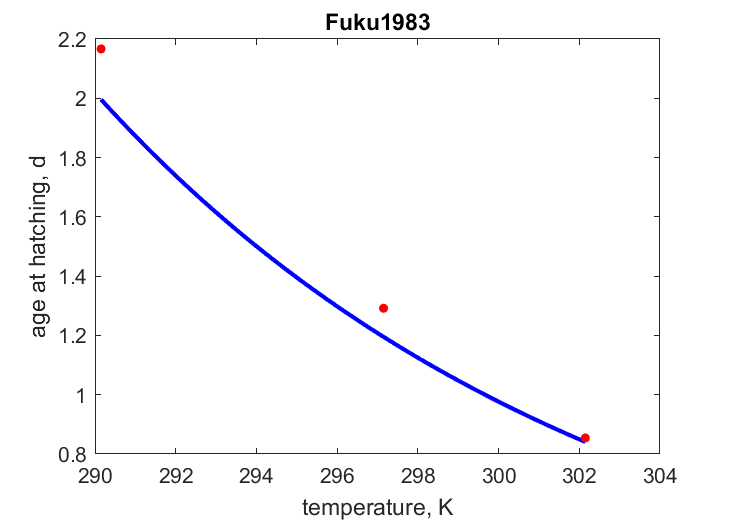
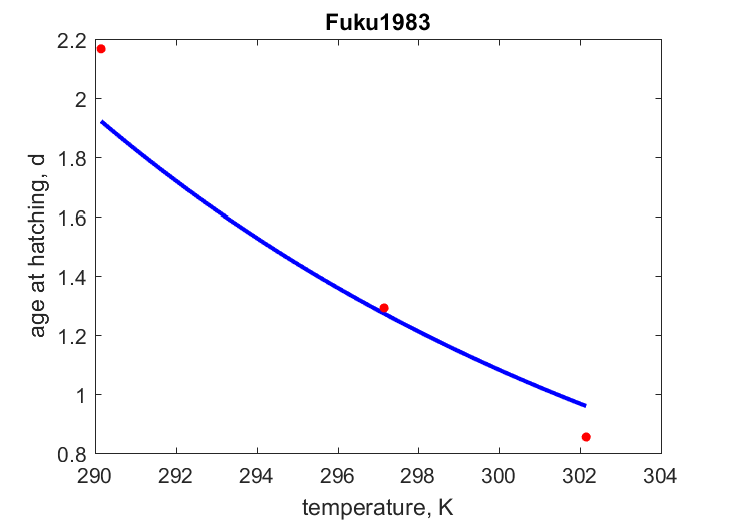
repro experiments code checkup, pars_init released some pars, group plots

diff --git a/Engraulis_japonicus_res.html b/Engraulis_japonicus_res.html
@@ -44,7 +44,7 @@
   </div>
 
   <div class="par">
-  <h4>COMPLETE = 2.5; MRE =    0.182; SMSE =    0.309 </h4>
+  <h4>COMPLETE = 2.5; MRE =    0.170; SMSE =    0.189 </h4>
   </div>
 
   <p class="clear"></p>
@@ -53,36 +53,36 @@
   <h2>Data & predictions</h2>
   <TABLE id="prd">
     <TR  class="head"><TH>data</TH> <TH>prd</TH> <TH>RE</TH>  <TH>symbol</TH> <TH>units</TH> <TH>description</TH> </TR>
-    <TR><TD>  2</TD> <TD>2.239</TD> <TD>0.1195</TD> <TD>ab</TD> <TD>d</TD> <TD>age at birth</TD></TR>
-    <TR><TD> 96</TD> <TD>95.32</TD> <TD>0.00708</TD> <TD>tp_20</TD> <TD>d</TD> <TD>time since birth at puberty</TD></TR>
-    <TR><TD> 88</TD> <TD>90.09</TD> <TD>0.02374</TD> <TD>tp_m20</TD> <TD>d</TD> <TD>time since birth at puberty</TD></TR>
-    <TR><TD> 65</TD> <TD>62.01</TD> <TD>0.04594</TD> <TD>tp_26</TD> <TD>d</TD> <TD>time since birth at puberty</TD></TR>
-    <TR><TD> 60</TD> <TD>58.61</TD> <TD>0.02316</TD> <TD>tp_m26</TD> <TD>d</TD> <TD>time since birth at puberty</TD></TR>
-    <TR><TD>1462</TD> <TD>1457</TD> <TD>0.003603</TD> <TD>am</TD> <TD>d</TD> <TD>life span</TD></TR>
-    <TR><TD>0.3347</TD> <TD>0.2651</TD> <TD>0.2082</TD> <TD>Lb</TD> <TD>cm</TD> <TD>standard length at birth</TD></TR>
-    <TR><TD>2.1</TD> <TD>0.7063</TD> <TD>0.6636</TD> <TD>Lj</TD> <TD>cm</TD> <TD>standard length at metamorphosis</TD></TR>
-    <TR><TD>6.5</TD> <TD>7.065</TD> <TD>0.08691</TD> <TD>Lp</TD> <TD>cm</TD> <TD>standard length at puberty</TD></TR>
-    <TR><TD> 18</TD> <TD>15.26</TD> <TD>0.1522</TD> <TD>Li</TD> <TD>cm</TD> <TD>ultimate total length</TD></TR>
-    <TR><TD>0.00025</TD> <TD>0.0002437</TD> <TD>0.02529</TD> <TD>Wwb</TD> <TD>g</TD> <TD>wet weight at birth</TD></TR>
-    <TR><TD> 45</TD> <TD>46.51</TD> <TD>0.03348</TD> <TD>Wwi</TD> <TD>g</TD> <TD>ultimate wet weight</TD></TR>
-    <TR><TD>600</TD> <TD>599</TD> <TD>0.001608</TD> <TD>Ri</TD> <TD>#/d</TD> <TD>maximum reprod rate</TD></TR>
-    <TR><TD colspan="2">see figure</TD> <TD>0.06507</TD> <TD>Tah</TD> <TD colspan="2">temperature, <font color="blue"><i>vs.</i></font> age at hatching</TD>
-    <TR><TD colspan="2">see figure</TD> <TD>0.2239</TD> <TD>tR_f1_19</TD> <TD colspan="2">time since start of experiment, <font color="blue"><i>vs.</i></font> Individual reproduction rate</TD>
-    <TR><TD colspan="2">see figure</TD> <TD>0.2084</TD> <TD>tR_f1_23</TD> <TD colspan="2">time since start of experiment, <font color="blue"><i>vs.</i></font> Individual reproduction rate</TD>
-    <TR><TD colspan="2">see figure</TD> <TD>0.4127</TD> <TD>tR_f35_19</TD> <TD colspan="2">time since start of experiment, <font color="blue"><i>vs.</i></font> Individual reproduction rate</TD>
-    <TR><TD colspan="2">see figure</TD> <TD>0.3729</TD> <TD>tR_f35_23</TD> <TD colspan="2">time since start of experiment, <font color="blue"><i>vs.</i></font> Individual reproduction rate</TD>
-    <TR><TD colspan="2">see figure</TD> <TD>0.8262</TD> <TD>tR_f0_19</TD> <TD colspan="2">time since start of experiment, <font color="blue"><i>vs.</i></font> Individual reproduction rate</TD>
-    <TR><TD colspan="2">see figure</TD> <TD>0.8349</TD> <TD>tR_f0_23</TD> <TD colspan="2">time since start of experiment, <font color="blue"><i>vs.</i></font> Individual reproduction rate</TD>
-    <TR><TD colspan="2">see figure</TD> <TD>0.1272</TD> <TD>tL</TD> <TD colspan="2">time since birth, <font color="blue"><i>vs.</i></font> standard length</TD>
-    <TR><TD colspan="2">see figure</TD> <TD>0.0382</TD> <TD>tLj</TD> <TD colspan="2">time since birth, <font color="blue"><i>vs.</i></font> standard length</TD>
-    <TR><TD colspan="2">see figure</TD> <TD>0.1713</TD> <TD>LW</TD> <TD colspan="2">standard length, <font color="blue"><i>vs.</i></font> wet weight</TD>
-    <TR><TD colspan="2">see figure</TD> <TD>0.1783</TD> <TD>LWw</TD> <TD colspan="2">standard length, <font color="blue"><i>vs.</i></font> wet weight</TD>
-    <TR class="psd"><TD>0.02</TD> <TD>0.07124</TD> <TD>2.562</TD> <TD>psd.v</TD> <TD>cm/d</TD> <TD>energy conductance</TD></TR>
-    <TR class="psd"><TD>0.8</TD> <TD>0.7919</TD> <TD>0.01012</TD> <TD>psd.kap</TD> <TD>-</TD> <TD>allocation fraction to soma</TD></TR>
+    <TR><TD>  2</TD> <TD>2.39</TD> <TD>0.1951</TD> <TD>ab</TD> <TD>d</TD> <TD>age at birth</TD></TR>
+    <TR><TD> 96</TD> <TD>93.97</TD> <TD>0.02117</TD> <TD>tp_20</TD> <TD>d</TD> <TD>time since birth at puberty</TD></TR>
+    <TR><TD> 88</TD> <TD>85.1</TD> <TD>0.03292</TD> <TD>tp_m20</TD> <TD>d</TD> <TD>time since birth at puberty</TD></TR>
+    <TR><TD> 65</TD> <TD>66.52</TD> <TD>0.02337</TD> <TD>tp_26</TD> <TD>d</TD> <TD>time since birth at puberty</TD></TR>
+    <TR><TD> 60</TD> <TD>60.24</TD> <TD>0.004066</TD> <TD>tp_m26</TD> <TD>d</TD> <TD>time since birth at puberty</TD></TR>
+    <TR><TD>1462</TD> <TD>1732</TD> <TD>0.185</TD> <TD>am</TD> <TD>d</TD> <TD>life span</TD></TR>
+    <TR><TD>0.3347</TD> <TD>0.2603</TD> <TD>0.2225</TD> <TD>Lb</TD> <TD>cm</TD> <TD>standard length at birth</TD></TR>
+    <TR><TD>2.1</TD> <TD>0.412</TD> <TD>0.8038</TD> <TD>Lj</TD> <TD>cm</TD> <TD>standard length at metamorphosis</TD></TR>
+    <TR><TD>6.5</TD> <TD>5.95</TD> <TD>0.08464</TD> <TD>Lp</TD> <TD>cm</TD> <TD>standard length at puberty</TD></TR>
+    <TR><TD> 18</TD> <TD>14.45</TD> <TD>0.1971</TD> <TD>Li</TD> <TD>cm</TD> <TD>ultimate total length</TD></TR>
+    <TR><TD>0.00025</TD> <TD>0.0002696</TD> <TD>0.07856</TD> <TD>Wwb</TD> <TD>g</TD> <TD>wet weight at birth</TD></TR>
+    <TR><TD> 45</TD> <TD>46.16</TD> <TD>0.02587</TD> <TD>Wwi</TD> <TD>g</TD> <TD>ultimate wet weight</TD></TR>
+    <TR><TD>600</TD> <TD>603</TD> <TD>0.005018</TD> <TD>Ri</TD> <TD>#/d</TD> <TD>maximum reprod rate</TD></TR>
+    <TR><TD colspan="2">see figure</TD> <TD>0.08561</TD> <TD>Tah</TD> <TD colspan="2">temperature, <font color="blue"><i>vs.</i></font> age at hatching</TD>
+    <TR><TD colspan="2">see figure</TD> <TD>0.2416</TD> <TD>tR_f1_19</TD> <TD colspan="2">time since start of experiment, <font color="blue"><i>vs.</i></font> Individual reproduction rate</TD>
+    <TR><TD colspan="2">see figure</TD> <TD>0.2042</TD> <TD>tR_f1_23</TD> <TD colspan="2">time since start of experiment, <font color="blue"><i>vs.</i></font> Individual reproduction rate</TD>
+    <TR><TD colspan="2">see figure</TD> <TD>0.4232</TD> <TD>tR_f35_19</TD> <TD colspan="2">time since start of experiment, <font color="blue"><i>vs.</i></font> Individual reproduction rate</TD>
+    <TR><TD colspan="2">see figure</TD> <TD>0.3345</TD> <TD>tR_f35_23</TD> <TD colspan="2">time since start of experiment, <font color="blue"><i>vs.</i></font> Individual reproduction rate</TD>
+    <TR><TD colspan="2">see figure</TD> <TD>0.6764</TD> <TD>tR_f0_19</TD> <TD colspan="2">time since start of experiment, <font color="blue"><i>vs.</i></font> Individual reproduction rate</TD>
+    <TR><TD colspan="2">see figure</TD> <TD>0.3647</TD> <TD>tR_f0_23</TD> <TD colspan="2">time since start of experiment, <font color="blue"><i>vs.</i></font> Individual reproduction rate</TD>
+    <TR><TD colspan="2">see figure</TD> <TD>0.117</TD> <TD>tL</TD> <TD colspan="2">time since birth, <font color="blue"><i>vs.</i></font> standard length</TD>
+    <TR><TD colspan="2">see figure</TD> <TD>0.113</TD> <TD>tLj</TD> <TD colspan="2">time since birth, <font color="blue"><i>vs.</i></font> standard length</TD>
+    <TR><TD colspan="2">see figure</TD> <TD>0.1574</TD> <TD>LW</TD> <TD colspan="2">standard length, <font color="blue"><i>vs.</i></font> wet weight</TD>
+    <TR><TD colspan="2">see figure</TD> <TD>0.1073</TD> <TD>LWw</TD> <TD colspan="2">standard length, <font color="blue"><i>vs.</i></font> wet weight</TD>
+    <TR class="psd"><TD>0.02</TD> <TD>0.05895</TD> <TD>1.948</TD> <TD>psd.v</TD> <TD>cm/d</TD> <TD>energy conductance</TD></TR>
+    <TR class="psd"><TD>0.8</TD> <TD>0.7339</TD> <TD>0.08258</TD> <TD>psd.kap</TD> <TD>-</TD> <TD>allocation fraction to soma</TD></TR>
     <TR class="psd"><TD>0.95</TD> <TD>0.95</TD> <TD>  0</TD> <TD>psd.kap_R</TD> <TD>-</TD> <TD>reproduction efficiency</TD></TR>
-    <TR class="psd"><TD> 18</TD> <TD>137.1</TD> <TD>6.619</TD> <TD>psd.p_M</TD> <TD>J/d.cm^3</TD> <TD>vol-spec som maint</TD></TR>
+    <TR class="psd"><TD> 18</TD> <TD>150.3</TD> <TD>7.351</TD> <TD>psd.p_M</TD> <TD>J/d.cm^3</TD> <TD>vol-spec som maint</TD></TR>
     <TR class="psd"><TD>0.002</TD> <TD>0.002</TD> <TD>  0</TD> <TD>psd.k_J</TD> <TD>1/d</TD> <TD>maturity maint rate coefficient</TD></TR>
-    <TR class="psd"><TD>0.8</TD> <TD>0.8025</TD> <TD>0.003142</TD> <TD>psd.kap_G</TD> <TD>-</TD> <TD>growth efficiency</TD></TR>
+    <TR class="psd"><TD>0.8</TD> <TD>0.8043</TD> <TD>0.005353</TD> <TD>psd.kap_G</TD> <TD>-</TD> <TD>growth efficiency</TD></TR>
   </TABLE>
   </div>
 
@@ -91,33 +91,33 @@
   <TABLE id="par">
     <TR class="head"><TH>symbol</TH> <TH>units</TH> <TH>value</TH>  <TH>free</TH> <TH>description</TH> </TR>
     <TR><TD>T_ref</TD> <TD>K</TD> <TD>293.1</TD> <TD>0</TD> <TD>Reference temperature</TD></TR>
-    <TR><TD>T_A</TD> <TD>K</TD> <TD>6317</TD> <TD>1</TD> <TD>Arrhenius temp</TD></TR>
-    <TR><TD>z</TD> <TD>-</TD> <TD>1.152</TD> <TD>1</TD> <TD>zoom factor</TD></TR>
+    <TR><TD>T_A</TD> <TD>K</TD> <TD>5077</TD> <TD>1</TD> <TD>Arrhenius temp</TD></TR>
+    <TR><TD>z</TD> <TD>-</TD> <TD>1.718</TD> <TD>1</TD> <TD>zoom factor</TD></TR>
     <TR><TD>F_m</TD> <TD>l/d.cm^2</TD> <TD>6.5</TD> <TD>0</TD> <TD>{F_m}, max spec searching rate</TD></TR>
     <TR><TD>kap_X</TD> <TD>-</TD> <TD>0.8</TD> <TD>0</TD> <TD>digestion efficiency of food to reserve</TD></TR>
     <TR><TD>kap_P</TD> <TD>-</TD> <TD>0.1</TD> <TD>0</TD> <TD>faecation efficiency of food to faeces</TD></TR>
-    <TR><TD>v</TD> <TD>cm/d</TD> <TD>0.07124</TD> <TD>1</TD> <TD>energy conductance</TD></TR>
-    <TR><TD>kap</TD> <TD>-</TD> <TD>0.7919</TD> <TD>1</TD> <TD>allocation fraction to soma</TD></TR>
+    <TR><TD>v</TD> <TD>cm/d</TD> <TD>0.05895</TD> <TD>1</TD> <TD>energy conductance</TD></TR>
+    <TR><TD>kap</TD> <TD>-</TD> <TD>0.7339</TD> <TD>1</TD> <TD>allocation fraction to soma</TD></TR>
     <TR><TD>kap_R</TD> <TD>-</TD> <TD>0.95</TD> <TD>0</TD> <TD>reproduction efficiency</TD></TR>
-    <TR><TD>p_M</TD> <TD>J/d.cm^3</TD> <TD>137.1</TD> <TD>1</TD> <TD>[p_M], vol-spec somatic maint</TD></TR>
+    <TR><TD>p_M</TD> <TD>J/d.cm^3</TD> <TD>150.3</TD> <TD>1</TD> <TD>[p_M], vol-spec somatic maint</TD></TR>
     <TR><TD>p_T</TD> <TD>J/d.cm^2</TD> <TD>  0</TD> <TD>0</TD> <TD>{p_T}, surf-spec somatic maint</TD></TR>
     <TR><TD>k_J</TD> <TD>1/d</TD> <TD>0.002</TD> <TD>0</TD> <TD>maturity maint rate coefficient</TD></TR>
-    <TR><TD>E_G</TD> <TD>J/cm^3</TD> <TD>5214</TD> <TD>1</TD> <TD>[E_G], spec cost for structure</TD></TR>
-    <TR><TD>E_Hb</TD> <TD>J</TD> <TD>0.2129</TD> <TD>1</TD> <TD>maturity at birth</TD></TR>
-    <TR><TD>E_Hj</TD> <TD>J</TD> <TD>4.17</TD> <TD>1</TD> <TD>maturity at metam</TD></TR>
-    <TR><TD>E_Hp</TD> <TD>J</TD> <TD>6694</TD> <TD>1</TD> <TD>maturity at puberty</TD></TR>
+    <TR><TD>E_G</TD> <TD>J/cm^3</TD> <TD>5202</TD> <TD>1</TD> <TD>[E_G], spec cost for structure</TD></TR>
+    <TR><TD>E_Hb</TD> <TD>J</TD> <TD>0.2271</TD> <TD>1</TD> <TD>maturity at birth</TD></TR>
+    <TR><TD>E_Hj</TD> <TD>J</TD> <TD>0.917</TD> <TD>1</TD> <TD>maturity at metam</TD></TR>
+    <TR><TD>E_Hp</TD> <TD>J</TD> <TD>4663</TD> <TD>1</TD> <TD>maturity at puberty</TD></TR>
     <TR><TD>h_a</TD> <TD>1/d^2</TD> <TD>3.179e-08</TD> <TD>0</TD> <TD>Weibull aging acceleration</TD></TR>
     <TR><TD>s_G</TD> <TD>-</TD> <TD>0.0001</TD> <TD>0</TD> <TD>Gompertz stress coefficient</TD></TR>
-    <TR><TD>E_Hh</TD> <TD>J</TD> <TD>0.0616</TD> <TD>0</TD> <TD>maturity at hatching</TD></TR>
-    <TR><TD>E_Hpm</TD> <TD>J</TD> <TD>5767</TD> <TD>0</TD> <TD>maturity at puberty for males</TD></TR>
-    <TR><TD>del_M</TD> <TD>-</TD> <TD>0.2011</TD> <TD>1</TD> <TD>shape coefficient for standard length</TD></TR>
+    <TR><TD>E_Hh</TD> <TD>J</TD> <TD>0.05311</TD> <TD>1</TD> <TD>maturity at hatching</TD></TR>
+    <TR><TD>E_Hpm</TD> <TD>J</TD> <TD>3575</TD> <TD>1</TD> <TD>maturity at puberty for males</TD></TR>
+    <TR><TD>del_M</TD> <TD>-</TD> <TD>0.1881</TD> <TD>1</TD> <TD>shape coefficient for standard length</TD></TR>
     <TR><TD>f</TD> <TD>-</TD> <TD>  1</TD> <TD>0</TD> <TD>scaled functional response for 0-var data</TD></TR>
-    <TR><TD>f_0</TD> <TD>-</TD> <TD>0.1</TD> <TD>1</TD> <TD>scaled functional response for N-T 0 food data</TD></TR>
-    <TR><TD>f_35</TD> <TD>-</TD> <TD>0.35</TD> <TD>0</TD> <TD>scaled functional response for N-T low food data</TD></TR>
-    <TR><TD>f_LWw</TD> <TD>-</TD> <TD>0.6</TD> <TD>0</TD> <TD>scaled functional response for length-weight data in Wakasa Bay</TD></TR>
-    <TR><TD>f_Tah</TD> <TD>-</TD> <TD>0.4538</TD> <TD>0</TD> <TD>scaled functional response for Tah data</TD></TR>
-    <TR><TD>f_tL</TD> <TD>-</TD> <TD>0.4538</TD> <TD>0</TD> <TD>scaled functional response for tL data</TD></TR>
-    <TR><TD>f_tR</TD> <TD>-</TD> <TD>  1</TD> <TD>1</TD> <TD>scaled functional response for ad libitum part of tN-data experiments</TD></TR>
+    <TR><TD>f_0</TD> <TD>-</TD> <TD>0.2816</TD> <TD>1</TD> <TD>scaled functional response for N-T 0 food data</TD></TR>
+    <TR><TD>f_35</TD> <TD>-</TD> <TD>0.2841</TD> <TD>1</TD> <TD>scaled functional response for N-T low food data</TD></TR>
+    <TR><TD>f_LWw</TD> <TD>-</TD> <TD>0.3355</TD> <TD>1</TD> <TD>scaled functional response for length-weight data in Wakasa Bay</TD></TR>
+    <TR><TD>f_Tah</TD> <TD>-</TD> <TD>0.6083</TD> <TD>1</TD> <TD>scaled functional response for Tah data</TD></TR>
+    <TR><TD>f_tL</TD> <TD>-</TD> <TD>0.54</TD> <TD>1</TD> <TD>scaled functional response for tL data</TD></TR>
+    <TR><TD>f_tR</TD> <TD>-</TD> <TD>1.409</TD> <TD>1</TD> <TD>scaled functional response for ad libitum part of tN-data experiments</TD></TR>
     <TR><TD>t_0</TD> <TD>d</TD> <TD>  1</TD> <TD>0</TD> <TD>time at start development at 20 C</TD></TR>
   </TABLE>
   </div>

diff --git a/mydata_Engraulis_japonicus.m b/mydata_Engraulis_japonicus.m
@@ -19,7 +19,7 @@ metaData.ecoCode.reprod  = {'O'};
 
 metaData.T_typical  = C2K(18.4); % K, body temp
 metaData.data_0     = {'ab'; 'am'; 'Lb'; 'Lp'; 'Li'; 'Wwb'; 'Wwi'; 'Ri'}; 
-metaData.data_1     = {'t-L'; 'L-Ww'}; 
+metaData.data_1     = {'T-ah'; 't-L'; 'L-Ww'; 't-R_fT'}; 
 
 metaData.COMPLETE = 2.5; % using criteria of LikaKear2011
 
@@ -121,7 +121,7 @@ data.tR_f35_19 = [... %time since start of feeding experiment (d) - Daily reprod
 6345 9015.5 8308 4626.5 7913.5 6416 3161.5 5886.5 7306 5266 2375.5 3333.5 1360.5 2496 4965.5
 ]';
 data.tR_f35_19(:,2) = data.tR_f35_19(:,2)/50; % # of eggs in tank per day / # of individuals in tank
-units.tR_f35_19  = {'d', '#'};  label.tR_f35_19 = {'time since start of experiment', 'Individual reproduction rate'};  
+units.tR_f35_19  = {'d', '#/d'};  label.tR_f35_19 = {'time since start of experiment', 'Individual reproduction rate'};  
 temp.tR_f35_19   = C2K(19.5);  units.temp.tR_f35_19 = 'K'; label.temp.tR_f35_19 = 'temperature';
 bibkey.tR_f35_19 = 'YoneKita2014';
 comment.tR_f35_19 = 'Mean # of eggs in tank per day from 50 individuals, averaged from 2 tanks of 50 individuals with identical treatment. Adults of unknown weight and age. Avg length one week before data = 9.4cm Body Length. Food treatment after 1 week ad libitum acclimation period. Ad libitum considered 5% BW d^−1, low food considered 1.75% BW d^−1';
@@ -132,7 +132,7 @@ data.tR_f35_23 = [... %time since start of feeding experiment (d) - Daily reprod
 14210	15548	3830.5	8146.5	8980.5	10675.5	6743.5	5281	5690	5314	6043	5549	4766.5	6080.5	3704.5
 ]';
 data.tR_f35_23(:,2) = data.tR_f35_23(:,2)/50; % # of eggs in tank per day / # of individuals in tank
-units.tR_f35_23 = {'d', '#'};  label.tR_f35_23 = {'time since start of experiment', 'Individual reproduction rate'};  
+units.tR_f35_23 = {'d', '#/d'};  label.tR_f35_23 = {'time since start of experiment', 'Individual reproduction rate'};  
 temp.tR_f35_23 = C2K(23.7);  units.temp.tR_f35_23 = 'K'; label.temp.tR_f35_23 = 'temperature';
 bibkey.tR_f35_23 = 'YoneKita2014';
 comment.tR_f35_23 = 'Mean # of eggs in tank per day from 50 individuals, averaged from 2 tanks of 50 individuals with identical treatment. Adults of unknown weight and age. Avg length one week before data = 9.63cm Body Length. Food treatment after 1 week ad libitum acclimation period. Ad libitum considered 5% BW d^−1, low food considered 1.75% BW d^−1';
@@ -143,7 +143,7 @@ data.tR_f0_19 = [... %time since start of feeding experiment (d) - Daily reprodu
 5024	3823	3318	1084.5	7	0	160.5	1258.5	1403.5	2214.5	1887.5	599	0	789.5	607
 ]';
 data.tR_f0_19(:,2) = data.tR_f0_19(:,2)/50; % # of eggs in tank per day / # of individuals in tank
-units.tR_f0_19  = {'d', '#'};  label.tR_f0_19 = {'time since start of experiment', 'Individual reproduction rate'};  
+units.tR_f0_19  = {'d', '#/d'};  label.tR_f0_19 = {'time since start of experiment', 'Individual reproduction rate'};  
 temp.tR_f0_19 = C2K(19.5);  units.temp.tR_f0_19 = 'K'; label.temp.tR_f0_19 = 'temperature';
 bibkey.tR_f0_19 = 'YoneKita2014';
 comment.tR_f0_19 = 'Mean # of eggs in tank per day from 50 individuals, averaged from 2 tanks of 50 individuals with identical treatment. Adults of unknown weight and age. Avg length one week before data = 9.4cm Body Length. Food treatment after 1 week ad libitum acclimation period. Ad libitum considered 5% BW d^−1, low food considered 1.75% BW d^−1';
@@ -154,7 +154,7 @@ data.tR_f0_23 = [... %time since start of feeding experiment (d) - Daily reprodu
 11425	7257	2135.5	2156.5	1983.5	2355	2179.5	580.5	311	443.5	228	1054.5	921.5	261.5	395.5
 ]';
 data.tR_f0_23(:,2) = data.tR_f0_23(:,2)/50; % # of eggs in tank per day / # of individuals in tank
-units.tR_f0_23 = {'d', '#'}; label.tR_f0_23 = {'time since start of experiment', 'Individual reproduction rate'};  
+units.tR_f0_23 = {'d', '#/d'}; label.tR_f0_23 = {'time since start of experiment', 'Individual reproduction rate'};  
 temp.tR_f0_23 = C2K(23.7); units.temp.tR_f0_23 = 'K'; label.temp.tR_f0_23 = 'temperature';
 bibkey.tR_f0_23 = 'YoneKita2014';
 comment.tR_f0_23 = 'Mean # of eggs in tank per day from 50 individuals, averaged from 2 tanks of 50 individuals with identical treatment. Adults of unknown weight and age. Avg length one week before data = 9.63cm Body Length. Food treatment after 1 week ad libitum acclimation period. Ad libitum considered 5% BW d^−1, low food considered 1.75% BW d^−1';
@@ -195,7 +195,7 @@ comment.LWw = 'Data from Wakasaka Bay. Both sexes. Temperatures during year of s
 
 %% set weights for all real data
 weights = setweights(data, []);
-weights.Lj = 0 * weights.Lj;
+weights.Lj = 0 * weights.Lj; % why weight zero here? 
 weights.Li = 0.3 * weights.Li;
 
 %% set pseudodata and respective weights
@@ -209,18 +209,24 @@ txtData.bibkey = bibkey;
 txtData.comment = comment;
 
 %% Group plots
-set1 = {'tR_f1_19','tR_f1_23'}; comment1 = {'YoneKita2014, f=1, at 19C and 23C'};
-set2 = {'tR_f35_19','tR_f35_23'}; comment2 = {'YoneKita2014, f=0.35, at 19C and 23C'};
-set3 = {'tR_f0_19','tR_f0_23'}; comment3 = {'YoneKita2014, f=0.1, at 19C and 23C'};
-metaData.grp.sets = {set1,set2,set3};
-metaData.grp.comment = {comment1,comment2,comment3};
-%}
+% 
+% set1 = {'tR_f1_23','tR_f1_19'}; comment1 = {'YoneKita2014, f=1, at 23C and 19C'};
+% set2 = {'tR_f35_23','tR_f35_19'}; comment2 = {'YoneKita2014, f=0.35, at 23C and 19C'};
+% set3 = {'tR_f0_23','tR_f0_19'}; comment3 = {'YoneKita2014, f=0.1, at 23C and 19C'};
+% metaData.grp.sets = {set1,set2,set3};
+% metaData.grp.comment = {comment1,comment2,comment3};
+
+set4 = {'tR_f1_19','tR_f35_19','tR_f0_19'}; comment4 = {'YoneKita2014, f=1,f=0.35 and f=0, at 19C'};
+set5 = {'tR_f1_23','tR_f35_23','tR_f0_23'}; comment5 = {'YoneKita2014, f=1,f=0.35 and f=0, at 23C'};
+metaData.grp.sets = {set4, set5};
+metaData.grp.comment = {comment4,comment5};
+%
 %% Discussion points
-D1 = 'Added ____ as part of DEB School 2021';
-D2 = 'The data in this entry may be biased towards the Japanese populations of E. japonicus. Uncertain if parameters are the same for other areas e.g. Yellow Sea';
-D3 = 'The value of Lp in the previous mydata file (>10cm) seemed larger than what studies have observed around Japan (8.53, 7.57 and 6 cm respectively). The 8.53 cm Lp was observed at "low" food levels, where differences in temperature and daylight were accounted for. I therefore assumed that for Sagami Bay (where Lp = ~6.5cm) that f = 1 ';
-D4 = 'Changed the max wet weight Wwi to 45g (the value in Fishbase), which seems more realistic than the previously calculated value (>600g)';
-D5 = 'The original LW data from FukuTaka1988 was in units of mg. It seems the LW data in the original mydata file was over-converted by a factor of 10. New weight range is 0-6 g (instead of 0-60 g)';
+D1 = 'The data in this entry may be biased towards the Japanese populations of E. japonicus. Uncertain if parameters are the same for other areas e.g. Yellow Sea';
+D2 = 'Differences to previous entry: The value of Lp in the previous mydata file (>10cm) seemed larger than what studies have observed around Japan (8.53, 7.57 and 6 cm respectively). The 8.53 cm Lp was observed at "low" food levels, where differences in temperature and daylight were accounted for. I therefore assumed that for Sagami Bay (where Lp = ~6.5cm) that f = 1 ';
+D3 = 'Changed the max wet weight Wwi to 45g (the value in Fishbase), which seems more realistic than the previously calculated value (>600g)';
+D4 = 'The original LW data from FukuTaka1988 was in units of mg. It seems the LW data in the original mydata file was over-converted by a factor of 10. New weight range is 0-6 g (instead of 0-60 g)';
+D5 = 'Reproduction experiments (t-R_fT data) could be modeled in more detail to capture starvation (f=0) with initial high repro output';
 metaData.discussion = struct('D1',D1, 'D2',D2, 'D3',D3, 'D4',D4, 'D5',D5);  
                                  
 %% Links

diff --git a/predict_Engraulis_japonicus.m b/predict_Engraulis_japonicus.m
@@ -5,7 +5,8 @@ function [prdData, info] = predict_Engraulis_japonicus(par, data, auxData)
   vars_pull(cPar);  vars_pull(data);  vars_pull(auxData);
 
 filterChecks = f_tL >1 || ... % f contrained to not be larger than 1 or negative
-               f_tL <0 ; %   
+               f_tL <0 ||... 
+               f_tR>1 || f_0 > f_35 || f_35 > f_tR ; %   scaled food for repro experiments
 if filterChecks
    info = 0;
    prdData = {};
@@ -120,61 +121,68 @@ end
   Eah = a_h ./ TC_Tah; 
 
 %% temperature - daily reproduction rate
+ pars_R = [kap, kap_R, g, k_J, k_M, L_T, v, U_Hb, U_Hj, U_Hp]; % compose parameter vector at T_ref
+ 
 % t-R exp1, f=1, temp = 19C
-    pars_R = [kap, kap_R, g, k_J, k_M, L_T, v, U_Hb, U_Hj, U_Hp]; % compose parameter vector at T_ref
-  [~ , ~,  ~ , ~,  ~, ~,  l_i , ~, rho_B] = get_tj(pars_tj, f_tR);
- rT_B = rho_B * k_M * TC_19; L_i = l_i * L_m; % 1/d, von Bert growth rate and L_i for the first week (f= ad libitum)
-  L_1 = L_i - (L_i - L0.tR_f1_19*del_M) * exp( - rT_B * 7); % cm, expected structural length at start of experiment 
+[~ , ~,  ~ , ~,  ~, ~,  l_i , ~, rhoB_ftR] = get_tj(pars_tj, f_tR);
+ Li_ftR = l_i * L_m; % 1/d, L_i for  general rearing and  the first week(f= ad libitum)
+ 
+ rT_B = rhoB_ftR * k_M * TC_19;  % 1/d, von Bert growth rate 
+ L_1 = Li_ftR - (Li_ftR - L0.tR_f1_19*del_M) * exp( - rT_B * 7); % cm, expected structural length at start of experiment 
   % get predictions for (structural) length throughout experiment; Li and rB will later be different because it depends on f
-  L_f1_19 = L_i - (L_i - L_1) * exp( - rT_B * tR_f1_19(:,1)); % cm, expected structural length throughout experiment 
+  Li_f1 = Li_ftR; 
+  L_f1_19 = Li_f1 - (Li_f1 - L_1) * exp( - rT_B * tR_f1_19(:,1)); % cm, expected structural length throughout experiment 
   ER_f1_19 = reprod_rate_j(L_f1_19, f_tR, pars_R);
-
+  
 % t-R exp2, f=1, temp = 23C
-  [~ , ~,  ~ , ~,  ~, ~,  l_i , ~, rho_B] = get_tj(pars_tj, f_tR);
- rT_B = rho_B * k_M * TC_23; L_i = l_i * L_m; % 1/d, von Bert growth rate and L_i for the first week (f= ad libitum)
-  L_1 = L_i - (L_i - L0.tR_f1_23*del_M) * exp( - rT_B * 7); % cm, expected structural length at start of experiment 
+ rT_B = rhoB_ftR * k_M * TC_23;  % 1/d, von Bert growth rate 
+ L_1 = Li_ftR - (Li_ftR - L0.tR_f1_23*del_M) * exp( - rT_B * 7); % cm, expected structural length at start of experiment 
   % get predictions for (structural) length throughout experiment; Li and rB will later be different because it depends on f
-  L_f1_23 = L_i - (L_i - L_1) * exp( - rT_B * tR_f1_23(:,1)); % cm, expected structural length throughout experiment 
+  L_f1_23 = Li_f1 - (Li_f1 - L_1) * exp( - rT_B * tR_f1_23(:,1)); % cm, expected structural length throughout experiment 
   ER_f1_23 = reprod_rate_j(L_f1_23, f_tR, pars_R);
-  
+      
 % t-R exp3, f=0.35, temp = 19C  
-   [~ , ~,  ~ , ~,  ~, ~,  l_i , ~, rho_B] = get_tj(pars_tj, f_tR);
-  rT_B = rho_B * k_M * TC_19; L_i = l_i * L_m; % 1/d, von Bert growth rate and L_i for the first week (f= ad libitum)
-   L_1 = L_i - (L_i - L0.tR_f35_19*del_M) * exp( - rT_B * 7); % cm, expected structural length at start of experiment 
- % get predictions for (structural) length throughout experiment; Li and rB will later be different because it depends on f
-   L_f35_19 = L_i - (L_i - L_1) * exp( - rT_B * tR_f35_19(:,1)); % cm, expected structural length throughout experiment 
+   rT_B = rhoB_ftR * k_M * TC_19; 
+   L_1 = Li_ftR - (Li_ftR - L0.tR_f35_19*del_M) * exp( - rT_B * 7); % cm, expected structural length at start of experiment 
+  % get predictions for (structural) length throughout experiment; Li and rB will later be different because it depends on f
+  [~ , ~,  ~ , ~,  ~, ~,  l_i , ~, rhoB_f35] = get_tj(pars_tj, f_35);
+   Li_f35 = l_i * L_m; 
+  rT_B = rhoB_f35 * k_M * TC_19; % 1/d, von Bert growth rate and L_i for the experiment
+   L_f35_19 = Li_f35 - (Li_f35 - L_1) * exp( - rT_B * tR_f35_19(:,1)); % cm, expected structural length throughout experiment 
    ER_f35_19 = reprod_rate_j(L_f35_19, f_35, pars_R);
-   
+     
  % t-R exp4, f=0.35, temp = 23C 
-   [~ , ~,  ~ , ~,  ~, ~,  l_i , ~, rho_B] = get_tj(pars_tj, f_tR);
-  rT_B = rho_B * k_M * TC_23; L_i = l_i * L_m; % 1/d, von Bert growth rate and L_i for the first week (f= ad libitum)
-   L_1 = L_i - (L_i - L0.tR_f35_23*del_M) * exp( - rT_B * 7); % cm, expected structural length at start of experiment 
+ rT_B = rhoB_ftR * k_M * TC_23; 
+   L_1 = Li_ftR - (Li_ftR - L0.tR_f35_23*del_M) * exp( - rT_B * 7); % cm, expected structural length at start of experiment   
  % get predictions for (structural) length throughout experiment; Li and rB will later be different because it depends on f
-   L_f35_23 = L_i - (L_i - L_1) * exp( - rT_B * tR_f35_23(:,1)); % cm, expected structural length throughout experiment 
+   rT_B = rhoB_f35 * k_M * TC_23;
+   L_f35_23 = Li_f35 - (Li_f35 - L_1) * exp( - rT_B * tR_f35_23(:,1)); % cm, expected structural length throughout experiment 
    ER_f35_23 = reprod_rate_j(L_f35_23, f_35, pars_R);
-   
+     
 % t-R exp5, f=0.1, temp = 19C  
-   [~ , ~,  ~ , ~,  ~, ~,  l_i , ~, rho_B] = get_tj(pars_tj, f_tR);
-  rT_B = rho_B * k_M * TC_19; L_i = l_i * L_m; % 1/d, von Bert growth rate and L_i for the first week (f= ad libitum)
-   L_1 = L_i - (L_i - L0.tR_f0_19*del_M) * exp( - rT_B * 7); % cm, expected structural length at start of experiment 
+   rT_B = rhoB_ftR * k_M * TC_19; 
+   L_1 = Li_ftR - (Li_ftR - L0.tR_f0_19*del_M) * exp( - rT_B * 7); % cm, expected structural length at start of experiment 
  % get predictions for (structural) length throughout experiment; Li and rB will later be different because it depends on f
-   L_f0_19 = L_i - (L_i - L_1) * exp( - rT_B * tR_f0_19(:,1)); % cm, expected structural length throughout experiment 
+  [~ , ~,  ~ , ~,  ~, ~,  l_i , ~, rhoB_f0] = get_tj(pars_tj, f_0);
+   Li_f0 = l_i * L_m; 
+   rT_B = rhoB_f0 * TC_19;
+   L_f0_19 = Li_f0 - (Li_f0 - L_1) * exp( - rT_B * tR_f0_19(:,1)); % cm, expected structural length throughout experiment 
    ER_f0_19 = reprod_rate_j(L_f0_19, f_0, pars_R);
-   
+     
 % t-R exp6, f=0.1, temp = 23C 
-   [~ , ~,  ~ , ~,  ~, ~,  l_i , ~, rho_B] = get_tj(pars_tj, f_tR);
-  rT_B = rho_B * k_M * TC_23; L_i = l_i * L_m; % 1/d, von Bert growth rate and L_i for the first week (f= ad libitum)
-   L_1 = L_i - (L_i - L0.tR_f0_23*del_M) * exp( - rT_B * 7); % cm, expected structural length at start of experiment 
+   rT_B = rhoB_ftR * k_M * TC_23; % 1/d, von Bert growth rate for the first week (f= ad libitum)
+   L_1 = Li_ftR - (Li_ftR - L0.tR_f0_23*del_M) * exp( - rT_B * 7); % cm, expected structural length at start of experiment 
  % get predictions for (structural) length throughout experiment; Li and rB will later be different because it depends on f
-   L_f0_23 = L_i - (L_i - L_1) * exp( - rT_B * tR_f0_23(:,1)); % cm, expected structural length throughout experiment 
-   ER_f0_23 = reprod_rate_j(L_f0_23, f_0, pars_R);
-  
+   rT_B = rhoB_f0 * TC_23;  
+  L_f0_23 = Li_f0 - (Li_f0 - L_1) * exp( - rT_B * tR_f0_23(:,1)); % cm, expected structural length throughout experiment 
+   ER_f0_23 = reprod_rate_j(L_f0_23, f_0, pars_R );
+    
 % pack to output
 
   prdData.Tah = Eah;
   prdData.tR_f1_19 = ER_f1_19;
   prdData.tR_f1_23 = ER_f1_23;
-  prdData.tR_f35_19 = ER_f35_19
+  prdData.tR_f35_19 = ER_f35_19;
   prdData.tR_f35_23 = ER_f35_23;
   prdData.tR_f0_19 = ER_f0_19; 
   prdData.tR_f0_23 = ER_f0_23;

diff --git a/pars_init_Engraulis_japonicus.m b/pars_init_Engraulis_japonicus.m
@@ -6,35 +6,35 @@ metaPar.model = 'abj';
 par.T_ref = 293.15;   free.T_ref = 0;   units.T_ref = 'K';        label.T_ref = 'Reference temperature'; 
 
 %% core primary parameters 
-par.T_A = 6317.1682;  free.T_A   = 1;   units.T_A = 'K';          label.T_A = 'Arrhenius temp'; 
-par.z = 1.1518;       free.z     = 1;   units.z = '-';            label.z = 'zoom factor'; 
+par.T_A = 5076.6396;  free.T_A   = 1;   units.T_A = 'K';          label.T_A = 'Arrhenius temp'; 
+par.z = 1.7176;       free.z     = 1;   units.z = '-';            label.z = 'zoom factor'; 
 par.F_m = 6.5;        free.F_m   = 0;   units.F_m = 'l/d.cm^2';   label.F_m = '{F_m}, max spec searching rate'; 
 par.kap_X = 0.8;      free.kap_X = 0;   units.kap_X = '-';        label.kap_X = 'digestion efficiency of food to reserve'; 
 par.kap_P = 0.1;      free.kap_P = 0;   units.kap_P = '-';        label.kap_P = 'faecation efficiency of food to faeces'; 
-par.v = 0.071239;     free.v     = 1;   units.v = 'cm/d';         label.v = 'energy conductance'; 
-par.kap = 0.7919;     free.kap   = 1;   units.kap = '-';          label.kap = 'allocation fraction to soma'; 
+par.v = 0.058952;     free.v     = 1;   units.v = 'cm/d';         label.v = 'energy conductance'; 
+par.kap = 0.73394;    free.kap   = 1;   units.kap = '-';          label.kap = 'allocation fraction to soma'; 
 par.kap_R = 0.95;     free.kap_R = 0;   units.kap_R = '-';        label.kap_R = 'reproduction efficiency'; 
-par.p_M = 137.1435;   free.p_M   = 1;   units.p_M = 'J/d.cm^3';   label.p_M = '[p_M], vol-spec somatic maint'; 
+par.p_M = 150.3115;   free.p_M   = 1;   units.p_M = 'J/d.cm^3';   label.p_M = '[p_M], vol-spec somatic maint'; 
 par.p_T = 0;          free.p_T   = 0;   units.p_T = 'J/d.cm^2';   label.p_T = '{p_T}, surf-spec somatic maint'; 
 par.k_J = 0.002;      free.k_J   = 0;   units.k_J = '1/d';        label.k_J = 'maturity maint rate coefficient'; 
-par.E_G = 5213.7423;  free.E_G   = 1;   units.E_G = 'J/cm^3';     label.E_G = '[E_G], spec cost for structure'; 
-par.E_Hb = 2.129e-01; free.E_Hb  = 1;   units.E_Hb = 'J';         label.E_Hb = 'maturity at birth'; 
-par.E_Hj = 4.170e+00; free.E_Hj  = 1;   units.E_Hj = 'J';         label.E_Hj = 'maturity at metam'; 
-par.E_Hp = 6.694e+03; free.E_Hp  = 1;   units.E_Hp = 'J';         label.E_Hp = 'maturity at puberty'; 
+par.E_G = 5202.2797;  free.E_G   = 1;   units.E_G = 'J/cm^3';     label.E_G = '[E_G], spec cost for structure'; 
+par.E_Hb = 2.271e-01; free.E_Hb  = 1;   units.E_Hb = 'J';         label.E_Hb = 'maturity at birth'; 
+par.E_Hj = 9.170e-01; free.E_Hj  = 1;   units.E_Hj = 'J';         label.E_Hj = 'maturity at metam'; 
+par.E_Hp = 4.663e+03; free.E_Hp  = 1;   units.E_Hp = 'J';         label.E_Hp = 'maturity at puberty'; 
 par.h_a = 3.179e-08;  free.h_a   = 0;   units.h_a = '1/d^2';      label.h_a = 'Weibull aging acceleration'; 
 par.s_G = 0.0001;     free.s_G   = 0;   units.s_G = '-';          label.s_G = 'Gompertz stress coefficient'; 
 
 %% other parameters 
-par.E_Hh = 6.160e-02; free.E_Hh  = 0;   units.E_Hh = 'J';         label.E_Hh = 'maturity at hatching'; 
-par.E_Hpm = 5.767e+03; free.E_Hpm = 0;   units.E_Hpm = 'J';        label.E_Hpm = 'maturity at puberty for males'; 
-par.del_M = 0.20112;  free.del_M = 1;   units.del_M = '-';        label.del_M = 'shape coefficient for standard length'; 
+par.E_Hh = 5.311e-02; free.E_Hh  = 1;   units.E_Hh = 'J';         label.E_Hh = 'maturity at hatching'; 
+par.E_Hpm = 3.575e+03; free.E_Hpm = 1;   units.E_Hpm = 'J';        label.E_Hpm = 'maturity at puberty for males'; 
+par.del_M = 0.18814;  free.del_M = 1;   units.del_M = '-';        label.del_M = 'shape coefficient for standard length'; 
 par.f = 1;            free.f     = 0;   units.f = '-';            label.f = 'scaled functional response for 0-var data'; 
-par.f_0 = 0.1;       free.f_0   = 1;   units.f_0 = '-';          label.f_0 = 'scaled functional response for N-T 0 food data'; 
-par.f_35 = 0.35;      free.f_35  = 0;   units.f_35 = '-';         label.f_35 = 'scaled functional response for N-T low food data'; 
-par.f_LWw = 0.6;      free.f_LWw = 0;   units.f_LWw = '-';        label.f_LWw = 'scaled functional response for length-weight data in Wakasa Bay'; 
-par.f_Tah = 0.45382;  free.f_Tah = 0;   units.f_Tah = '-';        label.f_Tah = 'scaled functional response for Tah data'; 
-par.f_tL = 0.45383;   free.f_tL  = 0;   units.f_tL = '-';         label.f_tL = 'scaled functional response for tL data'; 
-par.f_tR = 1;   free.f_tR  = 1;   units.f_tR = '-';         label.f_tR = 'scaled functional response for ad libitum part of tN-data experiments'; 
+par.f_0 = 0.28159;    free.f_0   = 1;   units.f_0 = '-';          label.f_0 = 'scaled functional response for N-T 0 food data'; 
+par.f_35 = 0.28407;   free.f_35  = 1;   units.f_35 = '-';         label.f_35 = 'scaled functional response for N-T low food data'; 
+par.f_LWw = 0.3355;   free.f_LWw = 1;   units.f_LWw = '-';        label.f_LWw = 'scaled functional response for length-weight data in Wakasa Bay'; 
+par.f_Tah = 0.60829;  free.f_Tah = 1;   units.f_Tah = '-';        label.f_Tah = 'scaled functional response for Tah data'; 
+par.f_tL = 0.54002;   free.f_tL  = 1;   units.f_tL = '-';         label.f_tL = 'scaled functional response for tL data'; 
+par.f_tR = 1;         free.f_tR  = 1;   units.f_tR = '-';         label.f_tR = 'scaled functional response for ad libitum part of tN-data experiments'; 
 par.t_0 = 1;          free.t_0   = 0;   units.t_0 = 'd';          label.t_0 = 'time at start development at 20 C'; 
 
 %% set chemical parameters from Kooy2010 

diff --git a/run_Engraulis_japonicus.m b/run_Engraulis_japonicus.m
@@ -10,6 +10,6 @@ estim_options('max_fun_evals', 5e3);
 
 estim_options('pars_init_method', 2); 
 estim_options('results_output', 3); 
-estim_options('method', 'no'); 
+estim_options('method', 'nm'); 
 
 estim_pars; 
